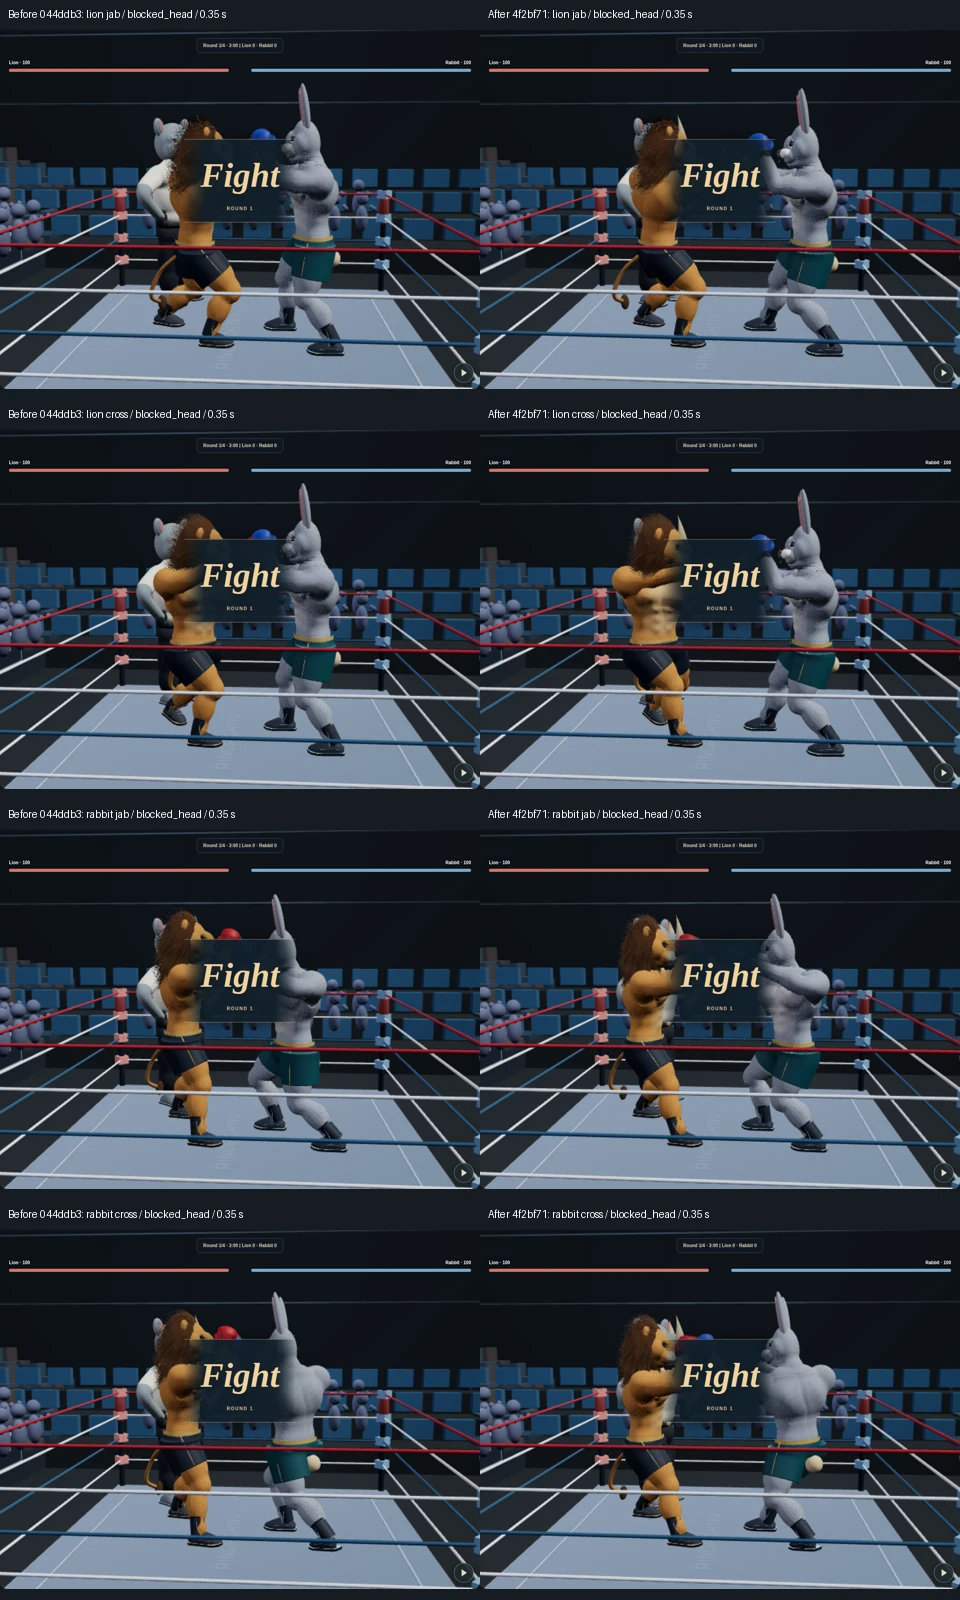
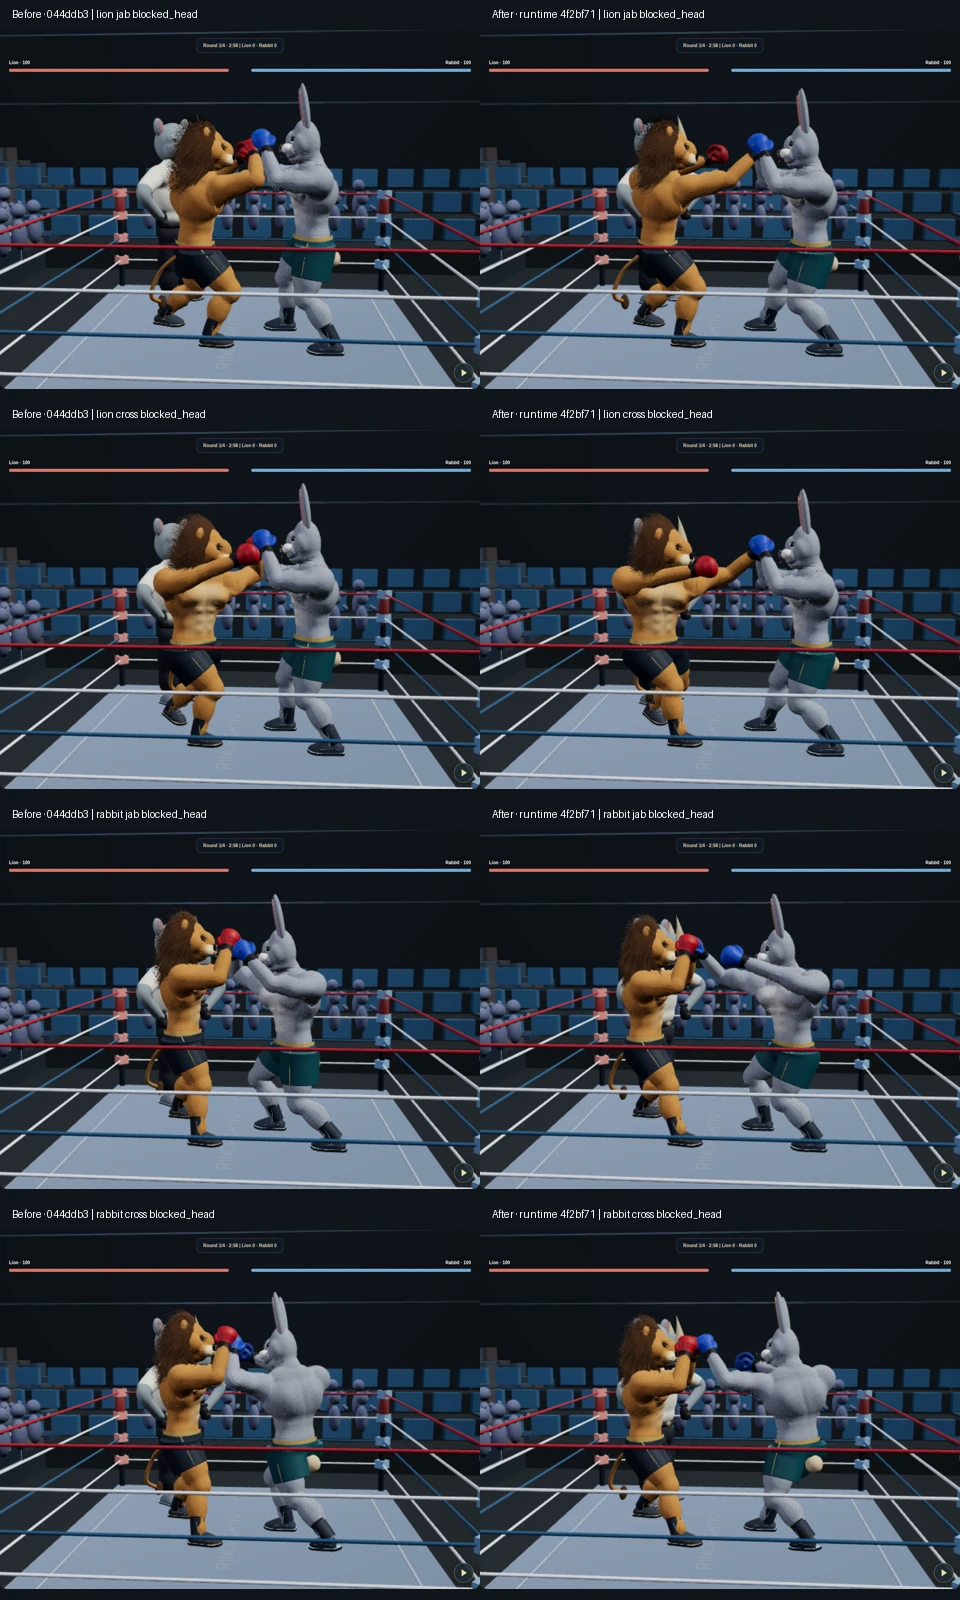
qa: clear opening overlay in matched straight punch captures

diff --git a/docs/fight-straight-extension.md b/docs/fight-straight-extension.md
@@ -34,3 +34,8 @@ and produced numerical/browser evidence. Physical-phone performance is not
 verified. This is a visually plausible animation/contact upgrade, not a new
 full-body physics simulation. Existing model, audio, other training modes and
 skeleton are preserved. Rollback: revert the isolated application commit.
+
+Capture provenance: fixed seed 74, elapsed strike frames .20/.35/.42/.65 s,
+round clock starts at 2 s to clear the round-opening HUD announcement in both
+versions. The candidate capture source is `7070223`; its application runtime is
+identical to `4f2bf71`. Render resolution and camera are matched.
